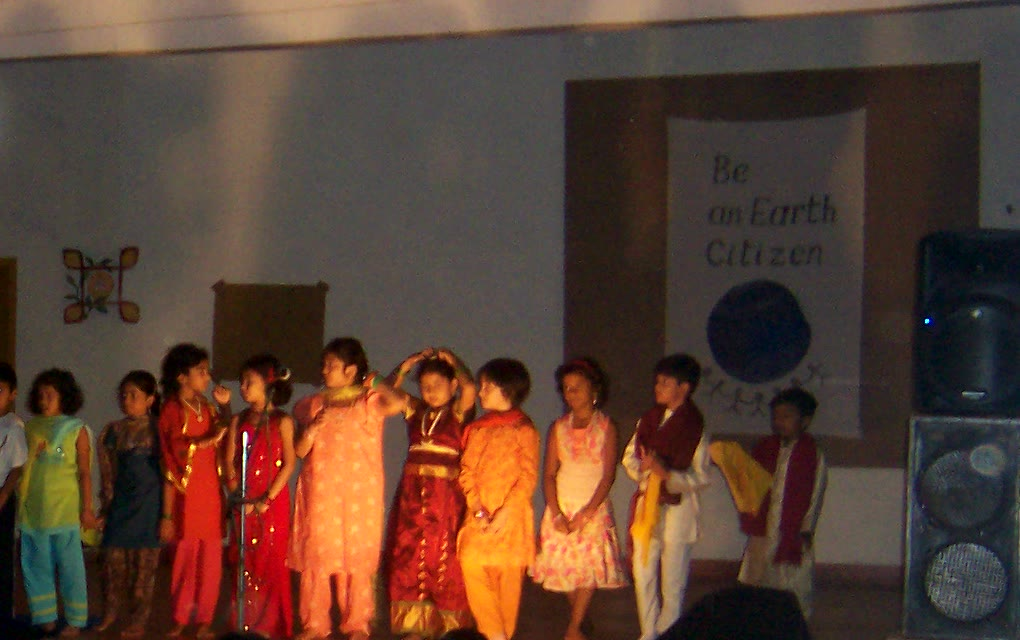
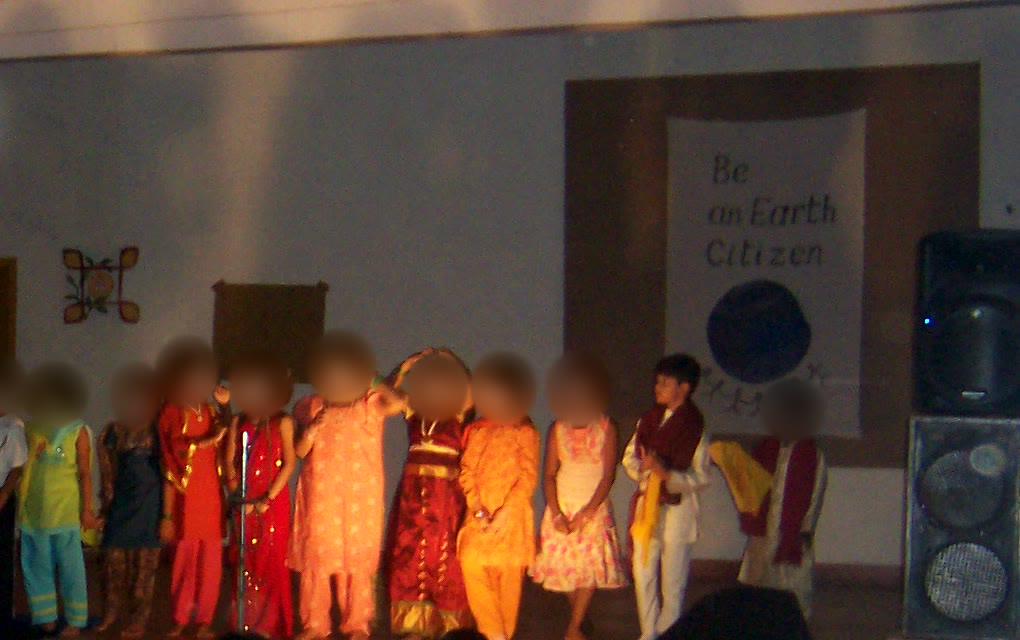
Blog: blur classmates' faces in the Prakriya photo

Changed region(s): [[0.0, 0.5, 0.3647, 0.6875], [0.3951, 0.5312, 0.6078, 0.6875], [0.7598, 0.5938, 0.8206, 0.6562]]

diff --git a/blog/a-living-whole/index.html b/blog/a-living-whole/index.html
@@ -91,7 +91,7 @@
                 <h2>We belong</h2>
                 <p class="opening">I studied for twelve years at <a href="https://prakriyaschool.edu.in/philosophy">Prakriya Green Wisdom School</a>, where we learned to look at the Earth the way the Gaia hypothesis does. As <mark class="leaf">one living system of people, animals, insects and plants</mark>, where pulling out any one part weakens the whole. I’ve grown up learning from driver “uncles” and “annas”, “aayammas”, and filling up my water bottle with tadpoles, much to the dismay of my poor mother. I've also participated in competitions like <a href="https://www.wiprofoundation.org/earthian/">WIPRO Earthian</a>. As we’ve learnt to build, a new component has entered the system: AI. It seems like this is the one component which has the most weight on the scales which balance the world, and <mark>building it requires a lot of care</mark>.</p>
                 <figure class="snapshot">
-                    <img src="../../assets/img/blog/prakriya-2009.jpg" width="1020" height="640" alt="Children in Independence Day costumes on a school stage, beneath a banner reading “Be an Earth Citizen” above a drawing of the Earth.">
+                    <img src="../../assets/img/blog/prakriya-2009.jpg?v=2" width="1020" height="640" alt="Children in Independence Day costumes on a school stage, beneath a banner reading “Be an Earth Citizen” above a drawing of the Earth.">
                     <figcaption>Independence Day at Prakriya, 2009. I’m second from the right.</figcaption>
                 </figure>
             </section>
